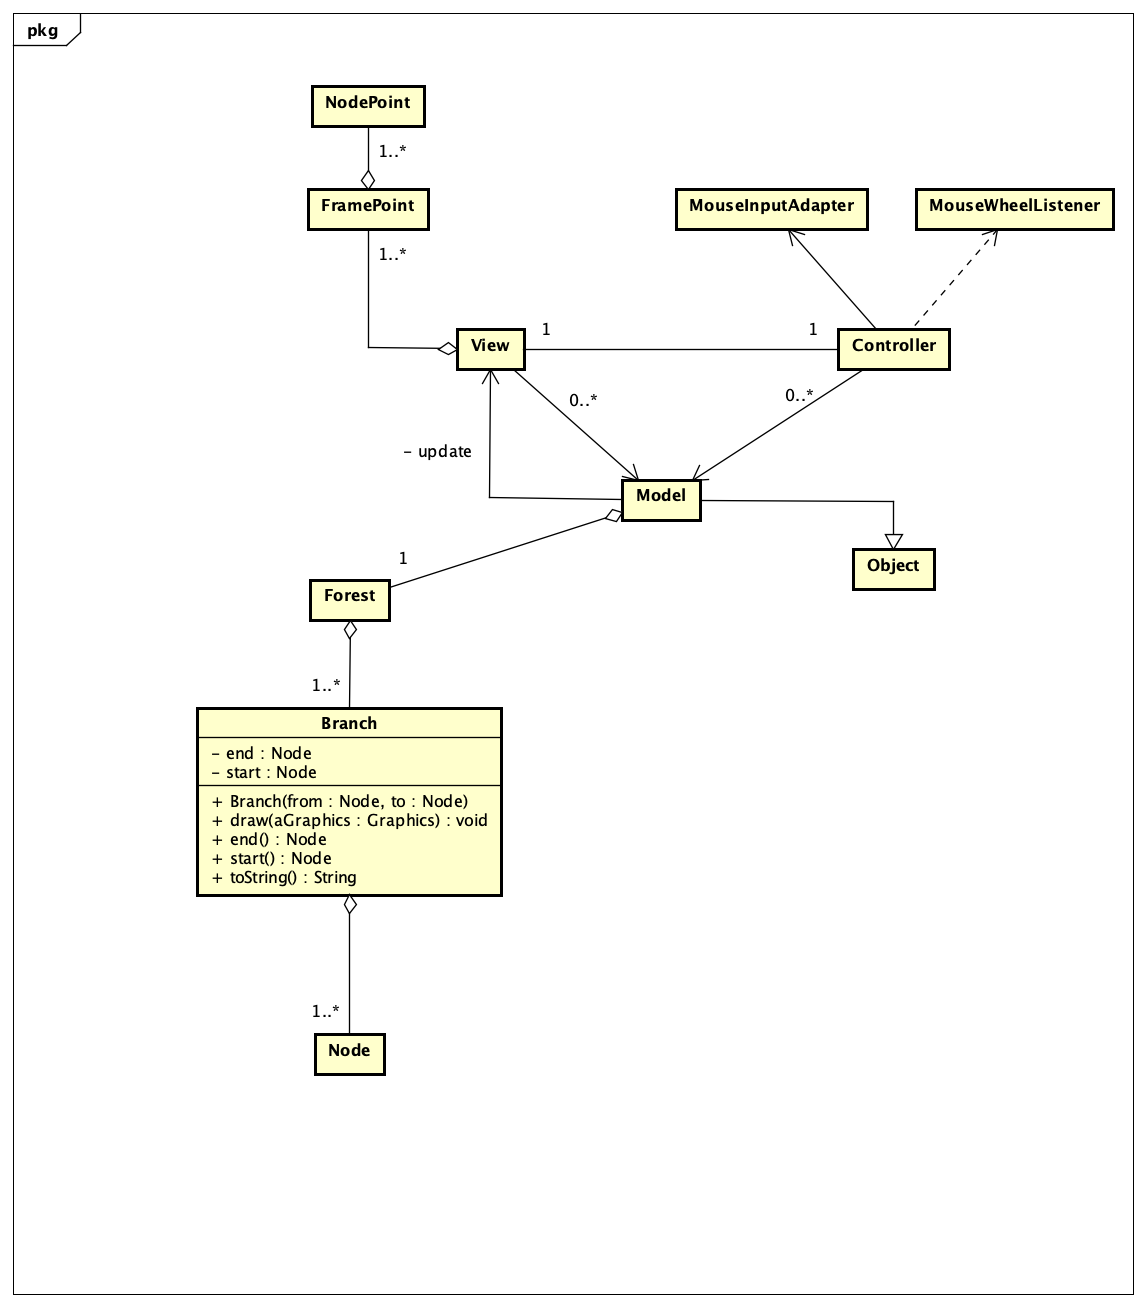
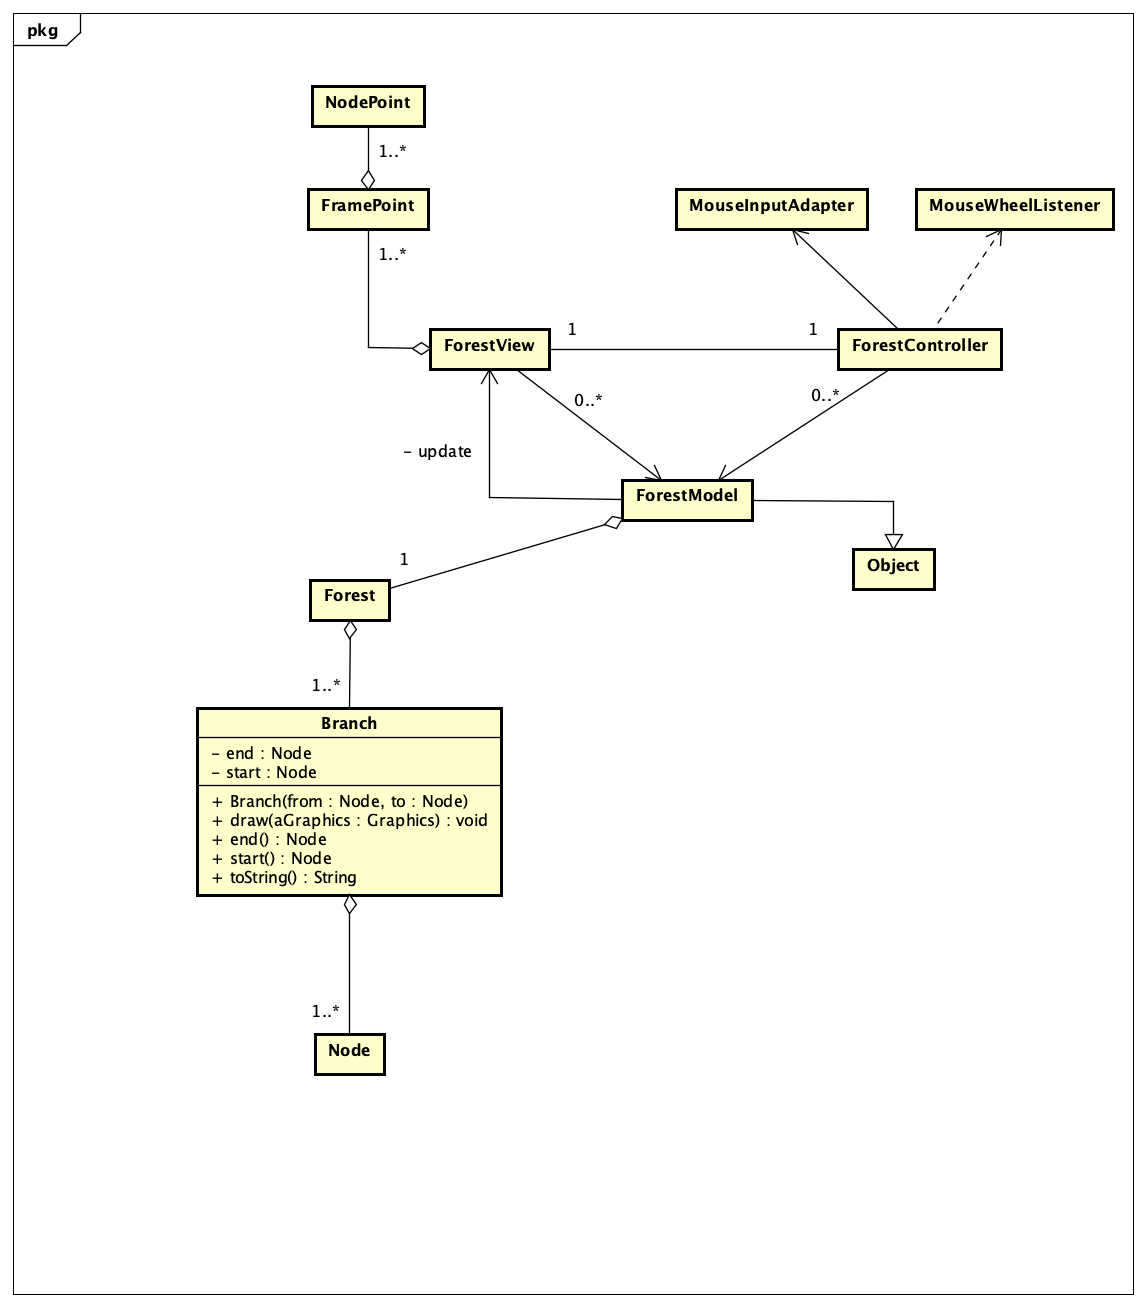
詳細設計

diff --git a/Forest_Document/DetailDesign/index.html b/Forest_Document/DetailDesign/index.html
@@ -248,9 +248,15 @@ th {
 </div>
 <hr>
 <h2>ソフトウェア工学II「樹状整列」詳細設計書</h2>
-<div class="belt">
-<h3><a name="KanseiSaseteKudasai">完成させてください</a></h3>
-</div>
+<ul>
+  <li><a href="#Example">Example</a>（メインクラス）</li>
+  <li><a href="#ForestModel">ForestModel</a>（モデル）</li>
+  <li><a href="#ForestView">ForestView</a>（ビュー）</li>
+  <li><a href="#ForestController">ForestController</a>（コントローラ）</li>
+  <li><a href="#Forest">Forest</a>（フォレスト）</li>
+  <li><a href="#Branch">Branch</a>（ブランチ）</li>
+  <li><a href="#Node">Node</a>（ノード）</li>
+</ul>
 
 <div class="belt">
 <h3><a name="Example">Example</a>（メインクラス）</h3>
@@ -282,7 +288,7 @@ th {
       <table class="content" summary="table">
         <tbody>
           <tr>
-            <td class="center-small"><a href="Model.png"><img class="borderless" src="Model.png" width="441" height="271" alt="Model"></a></td>
+            <td class="center-small"><a href="ForestModel.png"><img class="borderless" src="ForestModel.png" width="441" height="271" alt="ForestModel"></a></td>
             <td class="center"><a href="../TestSpecification/index.html#ForestModel">詳細説明（ForestModel）</a></td>
           </tr>
         </tbody>
@@ -302,7 +308,7 @@ th {
       <table class="content" summary="table">
         <tbody>
           <tr>
-            <td class="center-small"><a href="View.png"><img class="borderless" src="View.png" width="441" height="271" alt="View"></a></td>
+            <td class="center-small"><a href="ForestView.png"><img class="borderless" src="ForestView.png" width="441" height="271" alt="ForestView"></a></td>
             <td class="center"><a href="../TestSpecification/index.html#ForestView">詳細説明（ForestView）</a></td>
           </tr>
         </tbody>
@@ -322,7 +328,7 @@ th {
       <table class="content" summary="table">
         <tbody>
           <tr>
-            <td class="center-small"><a href="Controller.png"><img class="borderless" src="Controller.png" width="441" height="271" alt="Controller"></a></td>
+            <td class="center-small"><a href="ForestController.png"><img class="borderless" src="ForestController.png" width="441" height="271" alt="ForestController"></a></td>
             <td class="center"><a href="../TestSpecification/index.html#ForestController">詳細説明（ForestController）</a></td>
           </tr>
         </tbody>
